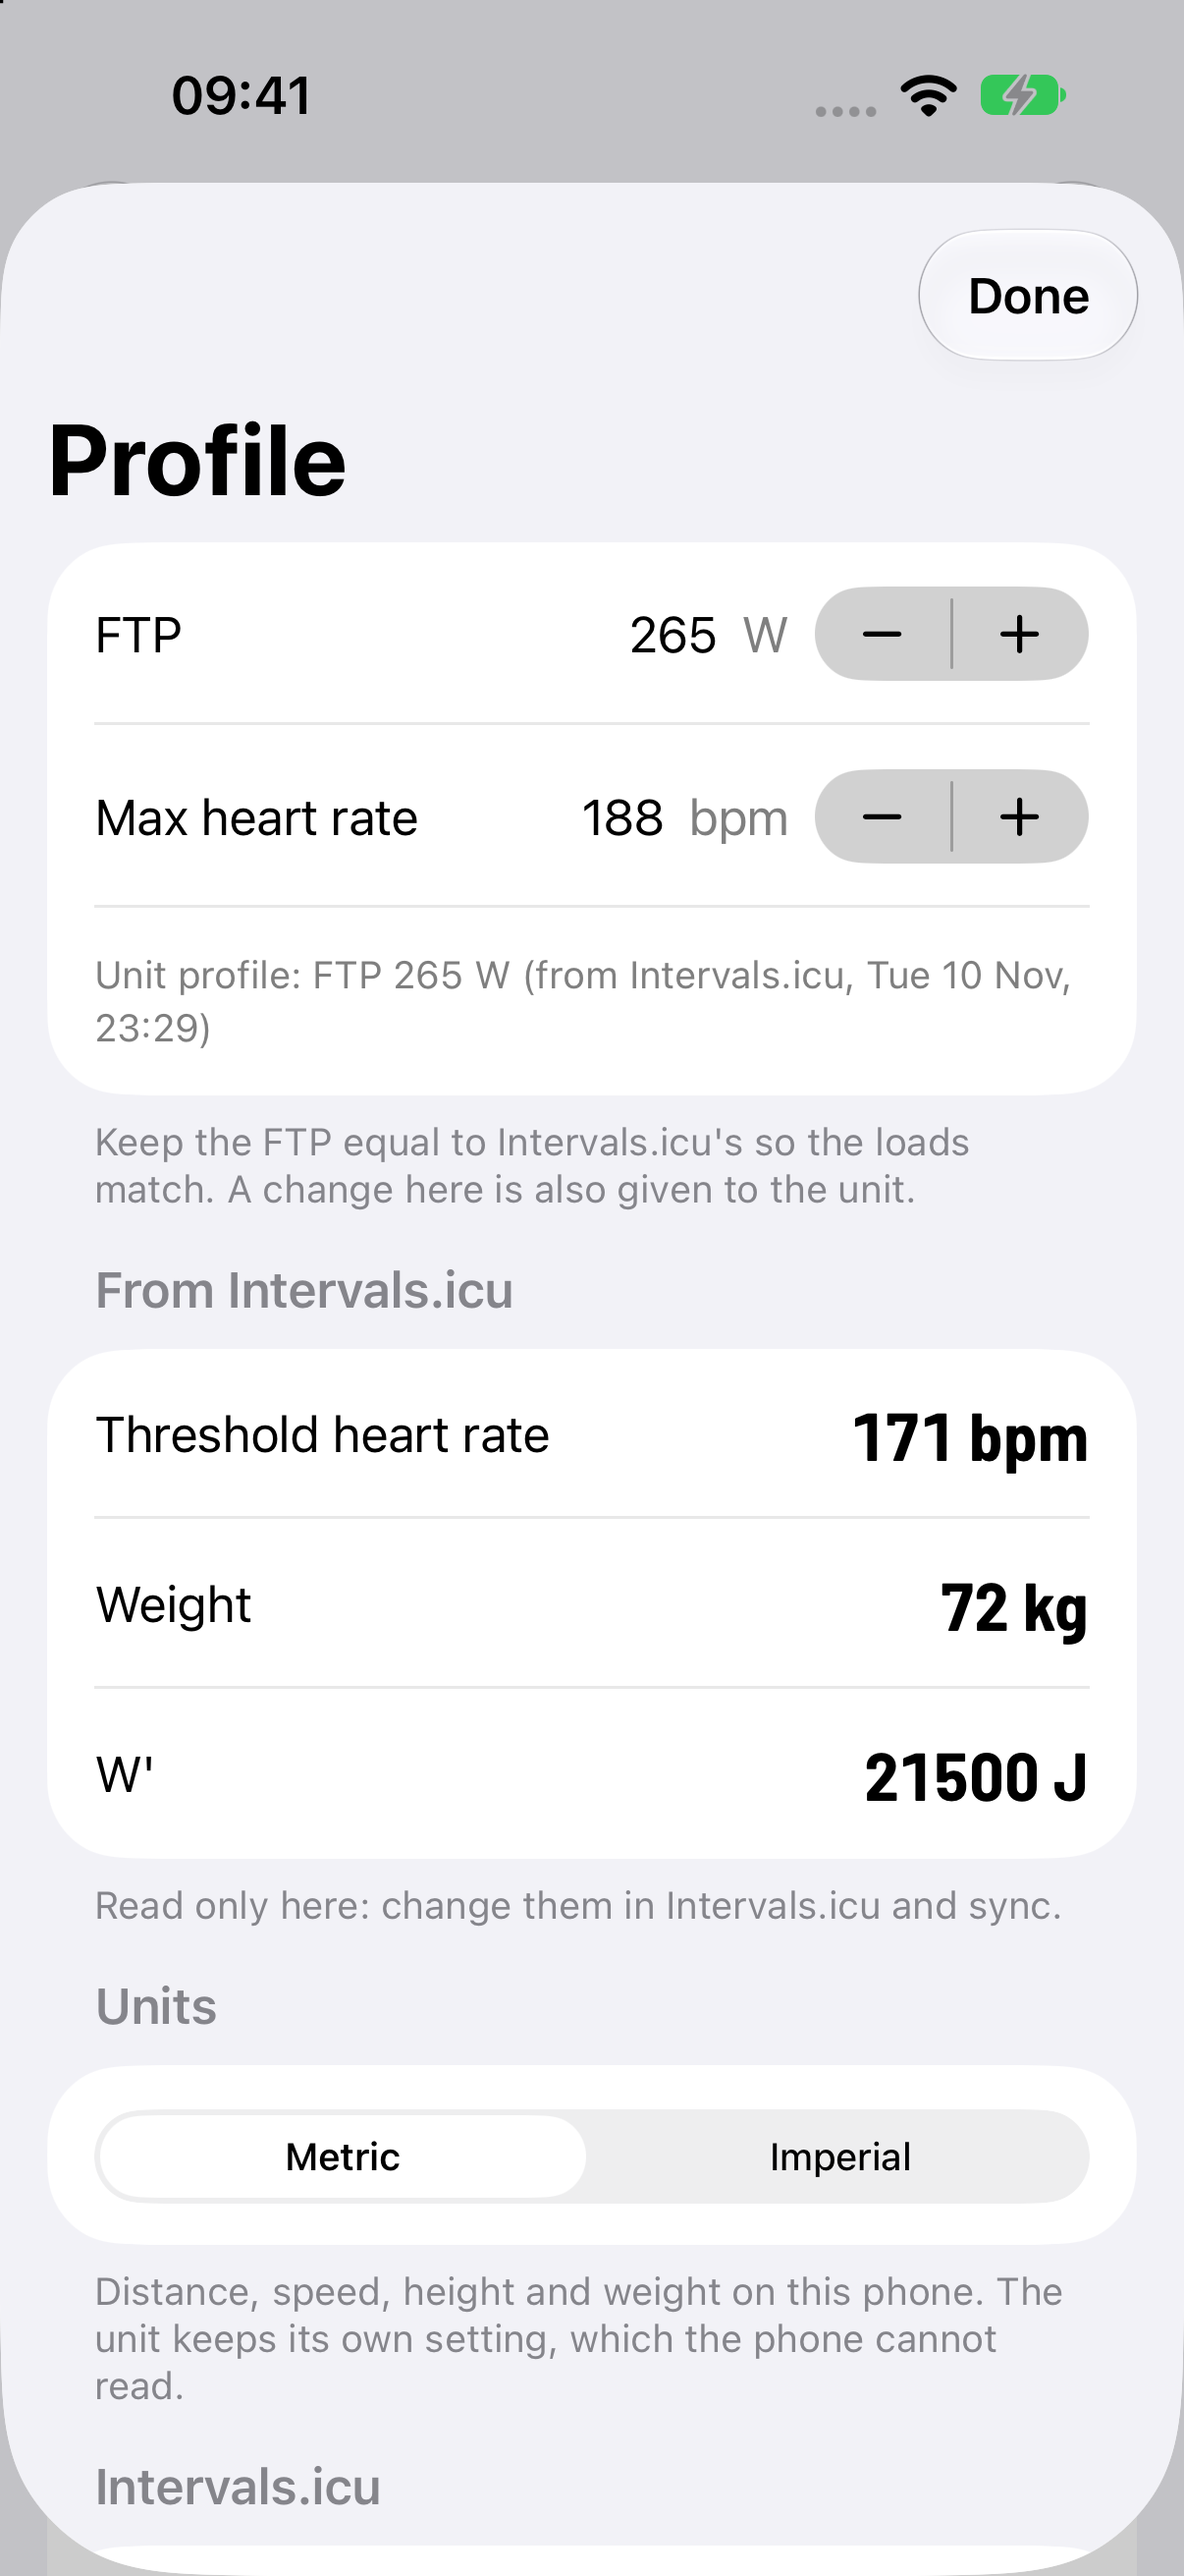
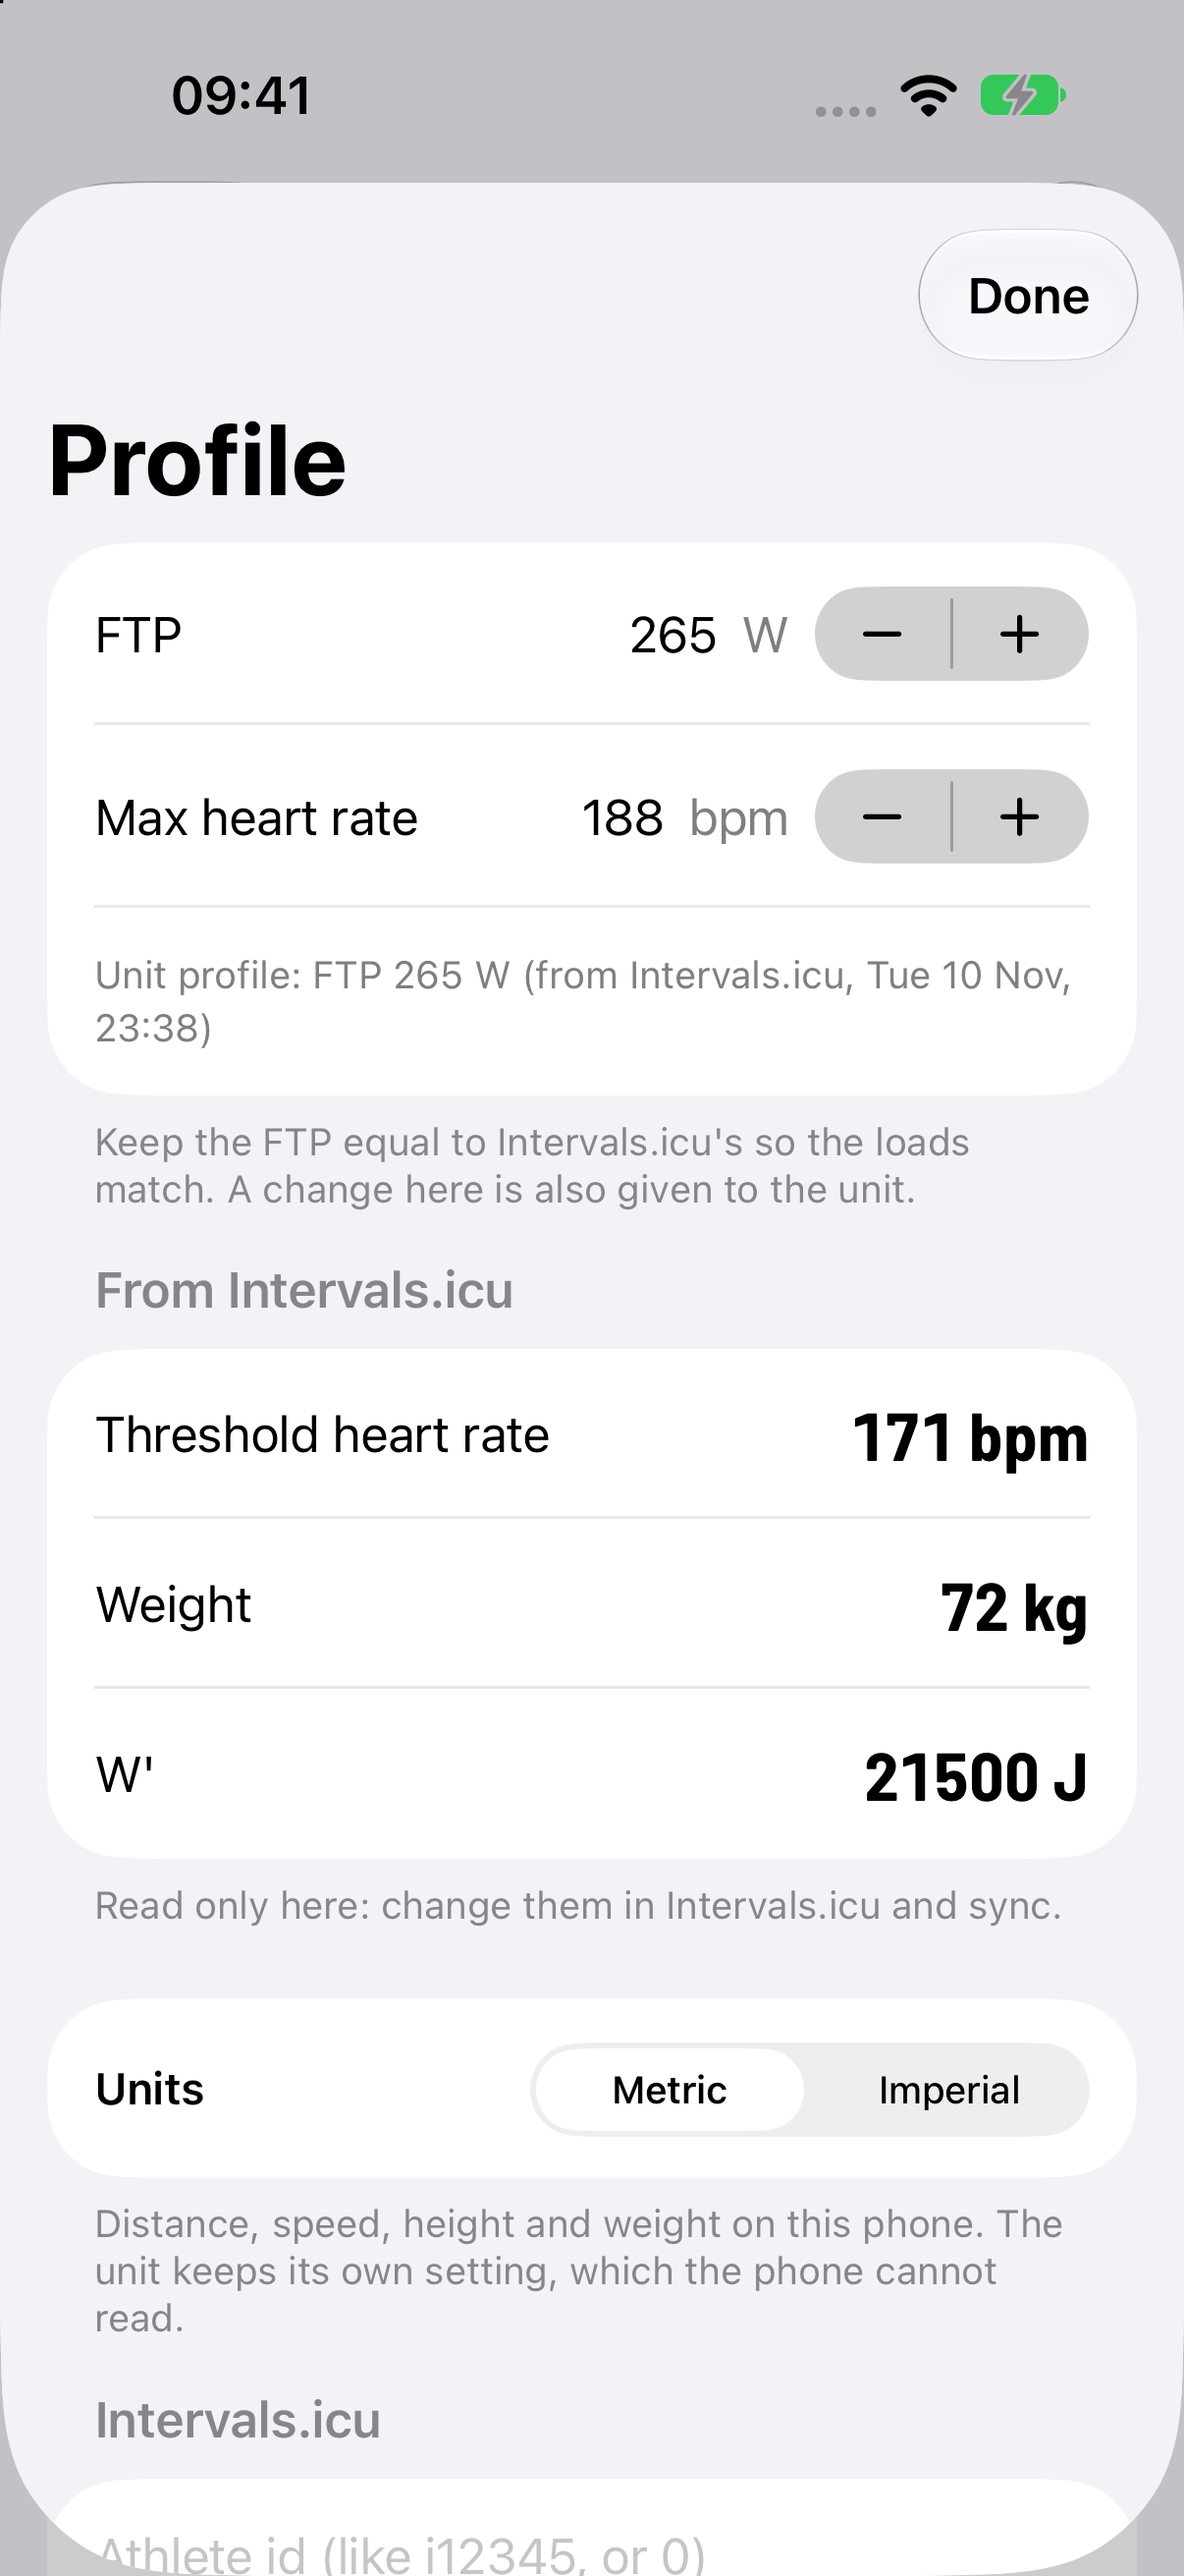
App UI review fixes: four y marks from the domain, Fitness as a text toolbar item, primary section titles, portrait unit glyph, own speed slate, laps card, CardHeader fits, units picker in CardHeader; gallery regenerated

Changed region(s): [[0.0614, 0.8032, 0.8897, 1.0], [0.092, 0.7723, 0.1841, 0.8341], [0.5216, 0.8032, 0.6136, 0.8341]]

diff --git a/app/ios/App/Theme.swift b/app/ios/App/Theme.swift
@@ -33,7 +33,9 @@ enum Tok {
 
 /// Series colours of the ride charts: none is the alarm red.
 extension Tok {
-    static let speed = zone(7)  // the ramp's neutral slate: zone 1's teal is a zone, and a speed line is not
+    /// A slate of its own (zone 7 is pinned to the firmware's constant by a test): 3:1 or more on the card, light and dark.
+    static let speed = Color(UIColor { $0.userInterfaceStyle == .dark
+        ? UIColor(red: 0.58, green: 0.54, blue: 0.68, alpha: 1) : UIColor(red: 0.35, green: 0.40, blue: 0.52, alpha: 1) })
     static let heartRate = zone(5)
     static let power = accent
     static let cadence = zone(2)
@@ -125,30 +127,44 @@ struct ActionRow: View {
 struct CardHeader<Control: View>: View {
     let title: String
     @ViewBuilder let control: Control
-    @Environment(\.dynamicTypeSize) private var type
 
     var body: some View {
-        let layout = type.isAccessibilitySize ? AnyLayout(VStackLayout(alignment: .leading, spacing: 8)) : AnyLayout(HStackLayout())
-        layout {
-            Text(title).font(.subheadline.bold())
-            if !type.isAccessibilitySize { Spacer(minLength: 8) }
-            control.pickerStyle(.segmented).frame(maxWidth: type.isAccessibilitySize ? .infinity : 190)
+        ViewThatFits(in: .horizontal) {
+            HStack {
+                Text(title).font(.subheadline.bold()).lineLimit(1)
+                Spacer(minLength: 8)
+                control.pickerStyle(.segmented).frame(maxWidth: 190)
+            }
+            VStack(alignment: .leading, spacing: 8) {
+                Text(title).font(.subheadline.bold())
+                control.pickerStyle(.segmented)
+            }
         }
     }
 }
 
-/// The bike computer drawn as a pixel grid: a body outline and a pixel "7" on its screen. One colour (the foreground
-/// style), for the unit card and the empty states; rides keep the `bicycle` symbol.
+/// A portrait bike computer drawn on a 12 x 12 pixel grid: the body with its corners cut, a one-cell screen frame with a
+/// small bar chart inside, a side button and a chin. One colour (the foreground style), for the unit card and the empty
+/// states; rides keep the `bicycle` symbol.
 struct UnitGlyph: View {
     @ScaledMetric(relativeTo: .title2) private var side: CGFloat = 30
 
     var body: some View {
         Canvas { ctx, size in
-            let u = size.width / 10  // a 10 x 10 pixel grid
+            let u = size.width / 12
             var path = Path()
             func cell(_ x: Int, _ y: Int) { path.addRect(CGRect(x: CGFloat(x) * u, y: CGFloat(y) * u, width: u, height: u)) }
-            for y in 0..<10 { for x in 1..<9 where x == 1 || x == 8 || y == 0 || y == 9 { cell(x, y) } }
-            for (x, y) in [(3, 2), (4, 2), (5, 2), (6, 2), (6, 3), (5, 4), (5, 5), (4, 6), (4, 7)] { cell(x, y) }
+            for y in 0...11 {
+                for x in 2...9 {
+                    let corner = (x == 2 || x == 9) && (y == 0 || y == 11)
+                    if !corner && (x == 2 || x == 9 || y == 0 || y == 11) { cell(x, y) }
+                }
+            }
+            for x in 3...8 { for y in [2, 7] { cell(x, y) } }  // the screen frame
+            for y in 3...6 { for x in [3, 8] { cell(x, y) } }
+            for (x, h) in [(4, 1), (5, 3), (6, 2), (7, 4)] { for k in 0..<h { cell(x, 6 - k) } }  // bars
+            cell(10, 3); cell(10, 4)  // side button
+            cell(5, 9); cell(6, 9)  // chin
             ctx.fill(path, with: .foreground)
         }
         .frame(width: side, height: side)

diff --git a/app/ios/App/RideDetail.swift b/app/ios/App/RideDetail.swift
@@ -38,13 +38,12 @@ struct ProfileSheet: View {
                     }
                 }
                 Section {
-                    Picker("Units", selection: $profile.imperial) {
-                        Text("Metric").tag(false)
-                        Text("Imperial").tag(true)
+                    CardHeader(title: "Units") {
+                        Picker("Units", selection: $profile.imperial) {
+                            Text("Metric").tag(false)
+                            Text("Imperial").tag(true)
+                        }
                     }
-                    .pickerStyle(.segmented)
-                } header: {
-                    Text("Units")
                 } footer: {
                     Text("Distance, speed, height and weight on this phone. The unit keeps its own setting, which the phone cannot read.")
                 }
@@ -407,7 +406,14 @@ struct MetricChart: View {
                 }
             }
             .chartXSelection(value: $selX)
-            .chartYAxis { AxisMarks(values: .automatic(desiredCount: 4)) }
+            .chartYAxis {
+                // four marks on any range: `desiredCount` is only a hint, and Charts steps by 1, 2 or 5
+                let (lo, hi) = (series.domain.lowerBound, series.domain.upperBound)
+                AxisMarks(values: Array(stride(from: lo, through: hi, by: max((hi - lo) / 3, .ulpOfOne)))) { v in
+                    AxisGridLine()
+                    AxisValueLabel { if let d = v.as(Double.self) { Text("\(Int(d.rounded()))") } }
+                }
+            }
             .chartYScale(domain: series.domain)
             .chartOverlay { proxy in
                 // the cursor line, drawn here so the chart's 2000 marks are not rebuilt on every drag tick
@@ -534,6 +540,8 @@ struct LapList: View {
             Text("Laps").font(.subheadline.bold())
             ForEach(laps.indices, id: \.self) { i in LapRow(index: i + 1, lap: laps[i]) }
         }
+        .frame(maxWidth: .infinity, alignment: .leading)
+        .card()
     }
 }
 

diff --git a/app/ios/App/ContentView.swift b/app/ios/App/ContentView.swift
@@ -114,8 +114,7 @@ struct ContentView: View {
             .toolbar {
                 // two items with their own names, not one unlabelled capsule
                 ToolbarItem(placement: .topBarLeading) {
-                    Button { fitness = true } label: { Label("Fitness", systemImage: "chart.line.uptrend.xyaxis") }
-                        .labelStyle(.titleAndIcon)
+                    Button("Fitness") { fitness = true }
                 }
                 ToolbarItem(placement: .topBarTrailing) {
                     Button { profile = true } label: { Image(systemName: "person.crop.circle") }
